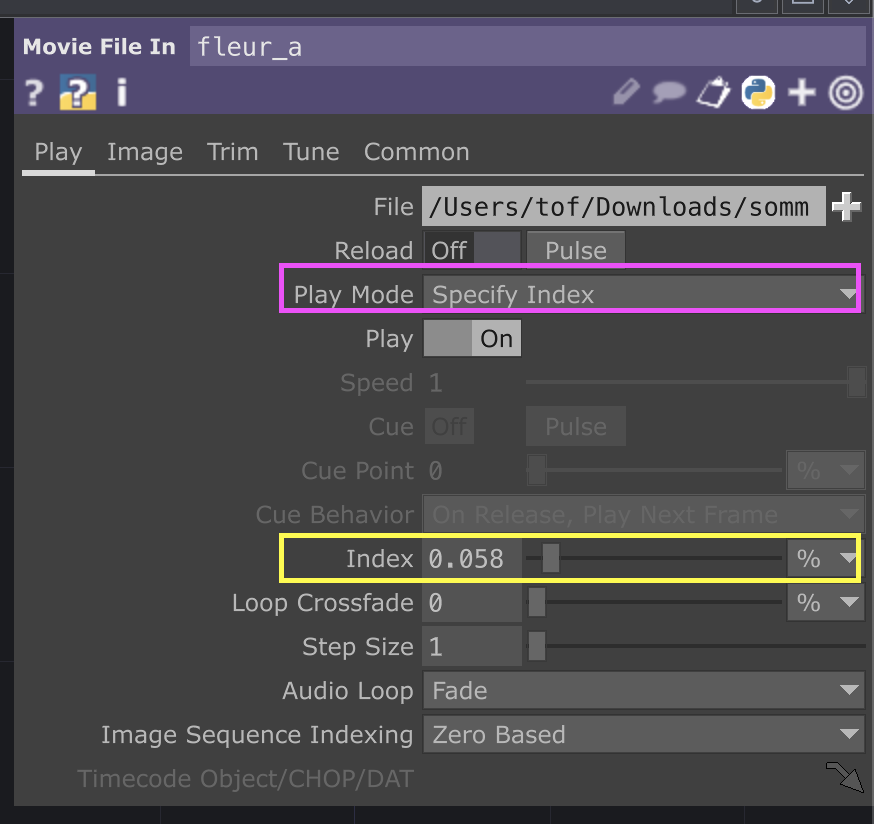
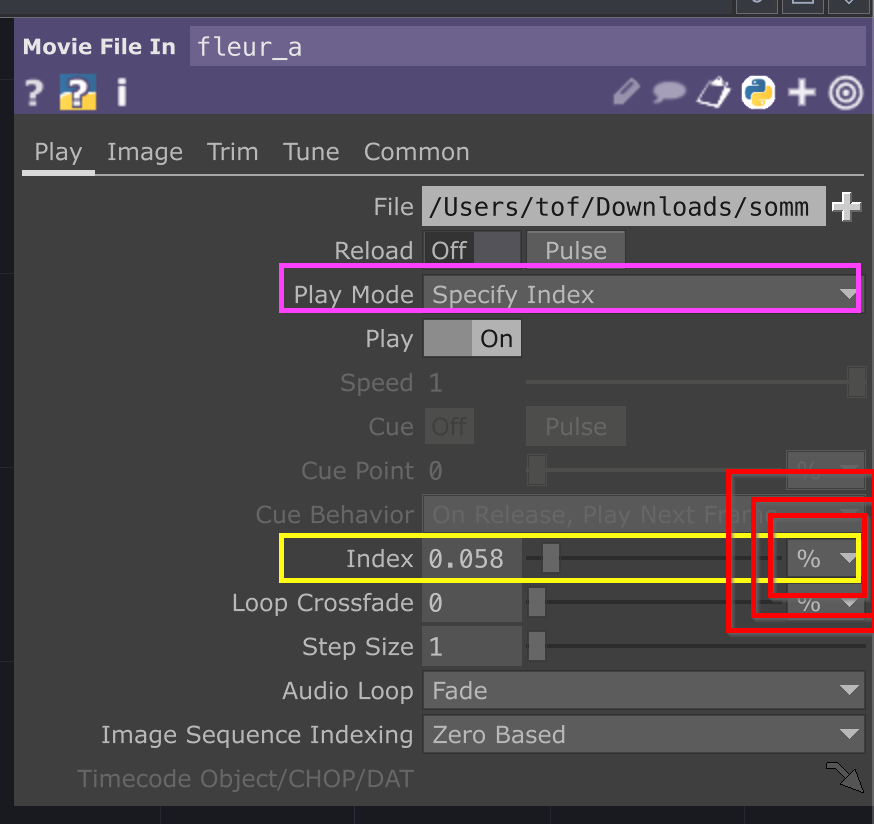
MàJ

Changed region(s): [[0.3089, 0.5461, 1.0, 0.7888], [0.865, 0.091, 0.8959, 0.1214], [0.0927, 0.1214, 0.1236, 0.1517]]

diff --git a/touchdesigner/video/index/README.md b/touchdesigner/video/index/README.md
@@ -2,6 +2,7 @@
 
 Paramètres pour contrôler l'image d'une vidéo par valeur d'index.
 
-![](./td_mfi_trim.png)
 
-![](./td_mfi_Play.png)
+![Paramètres de l'onglet Play du Movie File In TOP pour le mode de lecture par Index par % (pourcentage)](./td_mfi_Play.png)
+
+![Paramètres de l'onglet Trim du Movie File In TOP pour que la lecture bloque au début et à la fin de la vidéo](./td_mfi_trim.png)
